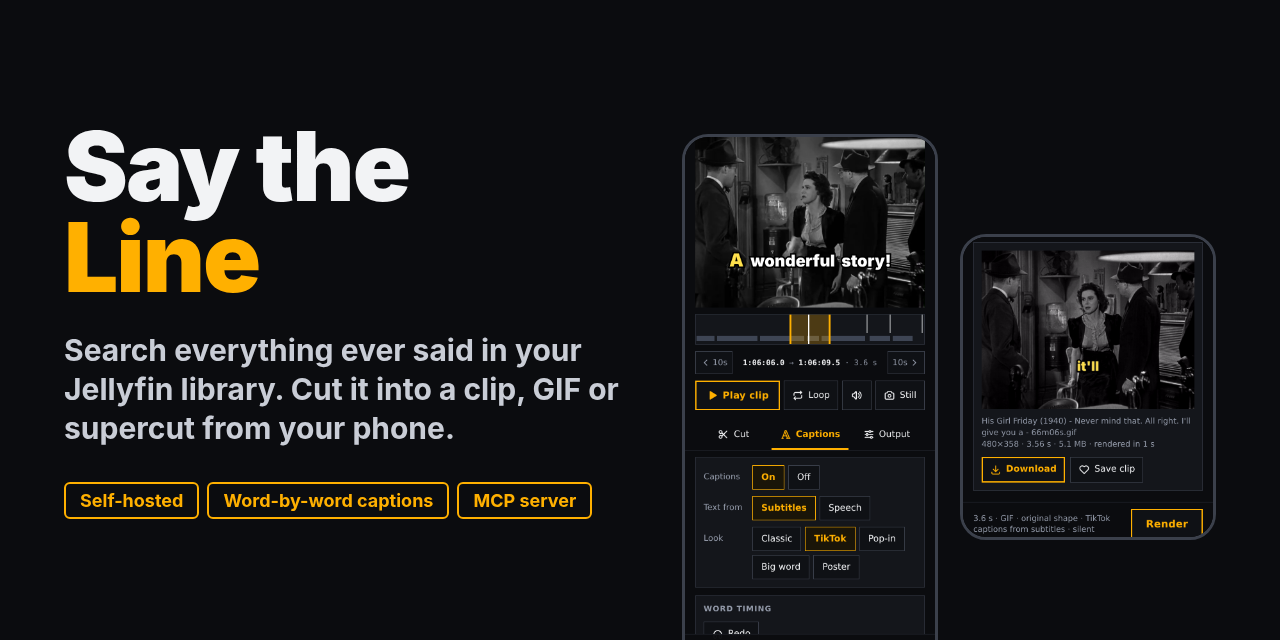
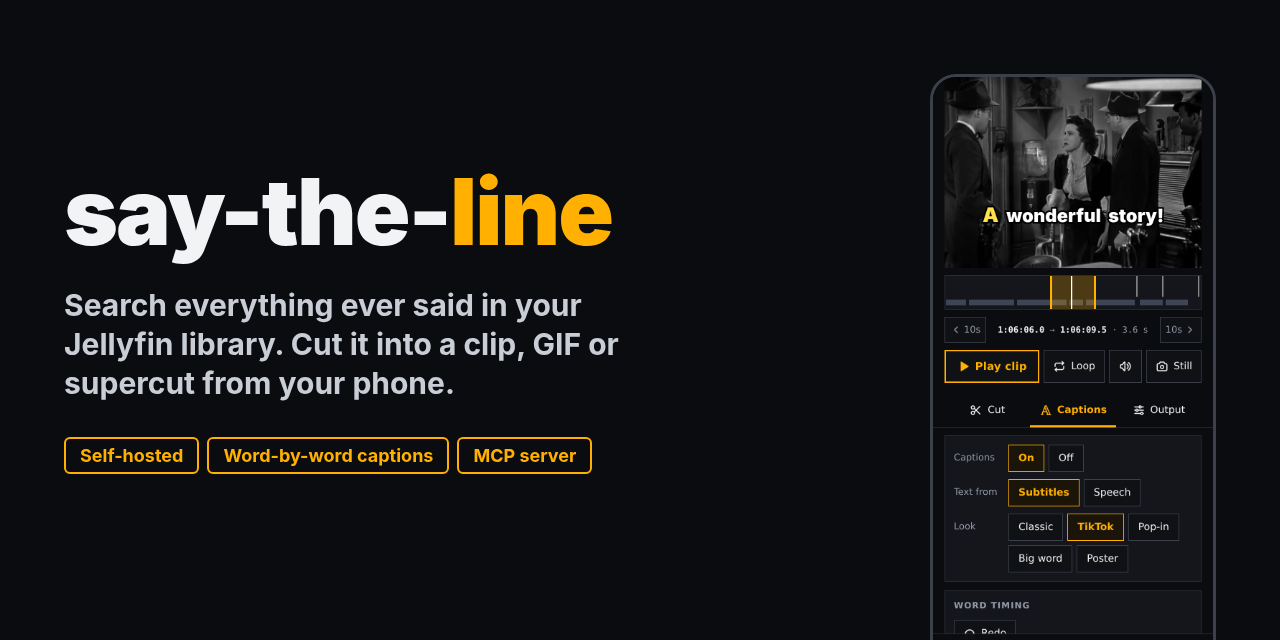
Social preview: repo name as the title, one phone

diff --git a/docs/screenshots/README.md b/docs/screenshots/README.md
@@ -16,5 +16,5 @@ ffmpeg -i demo-data/clips/<name>.gif -filter_complex \
 ```
 
 `social-preview.png` (1280×640) is the repo's GitHub social preview image (Settings → Social
-preview, which GitHub shows only on public repos): the Captions and result shots on the brand
-dark background, with the name and tagline.
+preview, which GitHub shows only on public repos): the Captions shot on the brand
+dark background, with the repo name and tagline.
